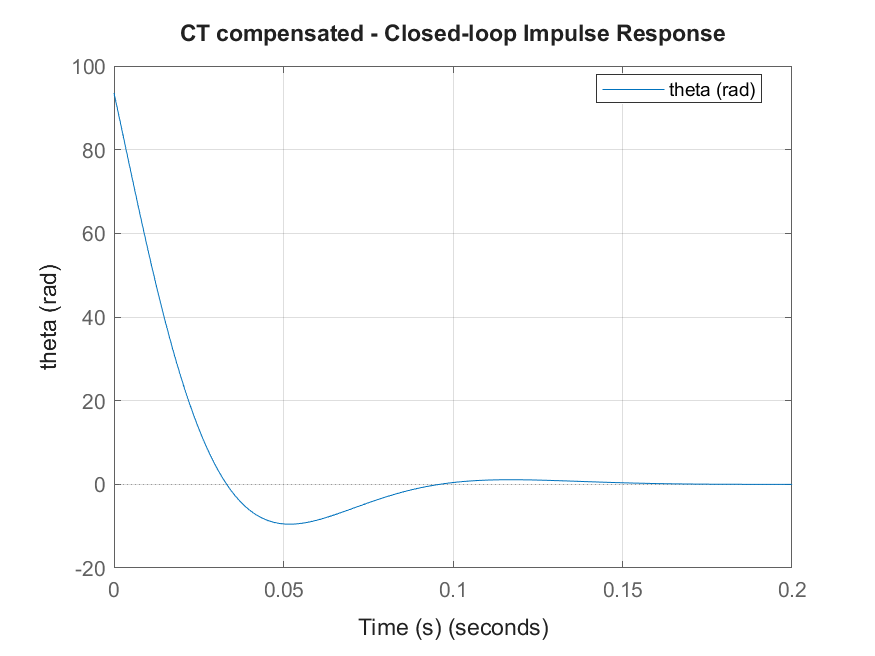
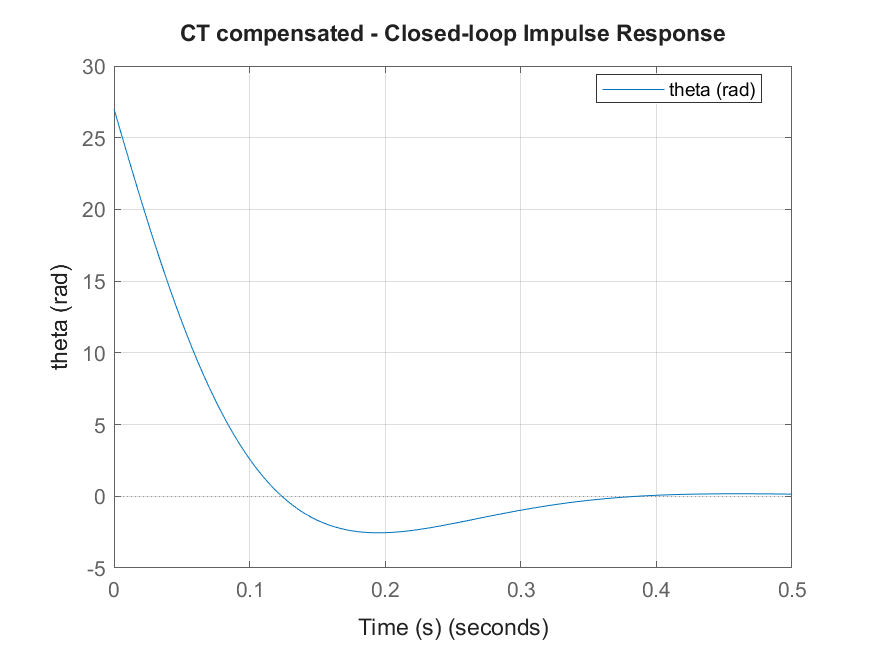
feat: Enhance PID controller design and update related figures

diff --git a/matlab/design_pid_controller.m b/matlab/design_pid_controller.m
@@ -13,18 +13,24 @@ catch
     end
 end
 
+max_bw = 10; % robustness-focused cap
+
 if nargin < 2 || isempty(target_bw)
-    candidates = logspace(-2, 2, 12); % 0.01 to 100 rad/s
+    base_bw = max_bw;
+    candidates = logspace(-3, log10(base_bw), 12); % 0.001 to max_bw rad/s
 else
-    candidates = unique(target_bw * [1 1/2 1/4 1/8 2 4 8 16]);
-    candidates = unique([candidates logspace(-2, 2, 8)]); % add a broad fallback band
+    base_bw = min(target_bw, max_bw);
+    candidates = unique(base_bw * [1 1/2 1/4 1/8 2 4]);
+    candidates = unique([candidates logspace(-3, log10(base_bw), 8)]); % add a low-band fallback
 end
-candidates = candidates(candidates > 0 & isfinite(candidates));
+candidates = candidates(candidates > 0 & isfinite(candidates) & candidates <= max_bw);
 
 signs = [1 -1];
+scale_candidates = logspace(-3, 0, 7); % 0.001 to 1
 
 best = struct('found', false, 'has_gm', false, 'gm', -Inf, 'has_pm', false, ...
-    'pm', -Inf, 'settle', Inf, 'C', [], 'info', struct(), 'bw', NaN, 'sign', 1);
+    'pm', -Inf, 'settle', Inf, 'C', [], 'info', struct(), 'bw', NaN, ...
+    'sign', 1, 'scale', NaN);
 
 for s = signs
     G_use = s * G;
@@ -35,45 +41,47 @@ for s = signs
             continue;
         end
 
-        L = C_try * G_use;
-        T = feedback(L, 1);
-        Tm = minreal(T, 1e-6);
-        if ~isstable(Tm)
-            continue;
-        end
+        for scale = scale_candidates
+            L = (scale * C_try) * G_use;
+            T = feedback(L, 1);
+            Tm = minreal(T, 1e-6);
+            if ~isstable(Tm)
+                continue;
+            end
 
-        warn_state = warning('off', 'all');
-        [Gm, Pm] = margin(L);
-        warning(warn_state);
-        has_gm = isinf(Gm) || (isfinite(Gm) && (Gm > 1));
-        has_pm = isfinite(Pm) && (Pm > 0);
+            warn_state = warning('off', 'all');
+            [Gm, Pm] = margin(L);
+            warning(warn_state);
+            has_gm = isinf(Gm) || (isfinite(Gm) && (Gm > 1));
+            has_pm = isfinite(Pm) && (Pm > 0);
 
-        s_info = stepinfo(Tm);
-        settle = s_info.SettlingTime;
-        if ~isfinite(settle)
-            settle = Inf;
-        end
+            if ~(has_gm && has_pm)
+                continue;
+            end
 
-        C_out = C_try;
-        if s < 0
-            C_out = -C_try;
-        end
+            s_info = stepinfo(Tm);
+            settle = s_info.SettlingTime;
+            if ~isfinite(settle)
+                settle = Inf;
+            end
 
-        if ~best.found
-            best = pack_best(C_out, info_try, w, s, has_gm, Gm, has_pm, Pm, settle);
-            continue;
-        end
+            C_out = scale * C_try;
+            if s < 0
+                C_out = -C_out;
+            end
 
-        if has_gm && ~best.has_gm
-            best = pack_best(C_out, info_try, w, s, has_gm, Gm, has_pm, Pm, settle);
-        elseif (has_gm == best.has_gm)
-            if has_pm && ~best.has_pm
-                best = pack_best(C_out, info_try, w, s, has_gm, Gm, has_pm, Pm, settle);
-            elseif (has_pm == best.has_pm)
+            if ~best.found
+                best = pack_best(C_out, info_try, w, s, scale, has_gm, Gm, has_pm, Pm, settle);
+                continue;
+            end
+
+            if Gm > best.gm + 1e-3
+                best = pack_best(C_out, info_try, w, s, scale, has_gm, Gm, has_pm, Pm, settle);
+            elseif abs(Gm - best.gm) <= 1e-3
                 if Pm > best.pm + 1e-3
-                    best = pack_best(C_out, info_try, w, s, has_gm, Gm, has_pm, Pm, settle);
+                    best = pack_best(C_out, info_try, w, s, scale, has_gm, Gm, has_pm, Pm, settle);
                 elseif abs(Pm - best.pm) <= 1e-3 && settle < best.settle
-                    best = pack_best(C_out, info_try, w, s, has_gm, Gm, has_pm, Pm, settle);
+                    best = pack_best(C_out, info_try, w, s, scale, has_gm, Gm, has_pm, Pm, settle);
                 end
             end
         end
@@ -87,6 +95,7 @@ if best.found
     info.SelectedGainMargin = best.gm;
     info.SelectedPhaseMargin = best.pm;
     info.SelectedSign = best.sign;
+    info.SelectedScale = best.scale;
     info.ClosedLoopStable = true;
     return;
 end
@@ -127,7 +136,8 @@ end
 warning(warn_state);
 end
 
-function best = pack_best(C, info, bw, sign, has_gm, gm, has_pm, pm, settle)
+function best = pack_best(C, info, bw, sign, scale, has_gm, gm, has_pm, pm, settle)
 best = struct('found', true, 'has_gm', has_gm, 'gm', gm, 'has_pm', has_pm, ...
-    'pm', pm, 'settle', settle, 'C', C, 'info', info, 'bw', bw, 'sign', sign);
+    'pm', pm, 'settle', settle, 'C', C, 'info', info, 'bw', bw, 'sign', sign, ...
+    'scale', scale);
 end
